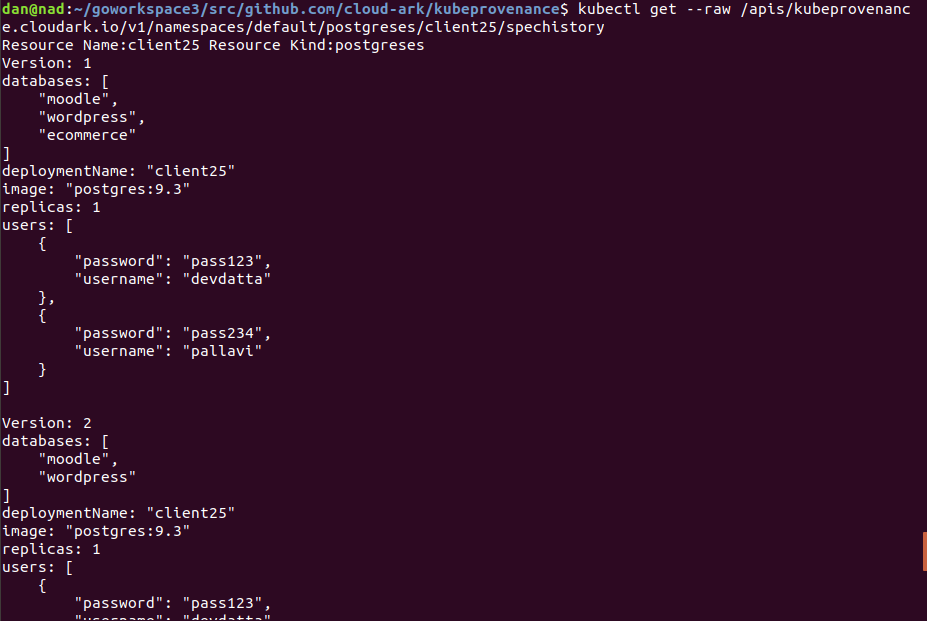
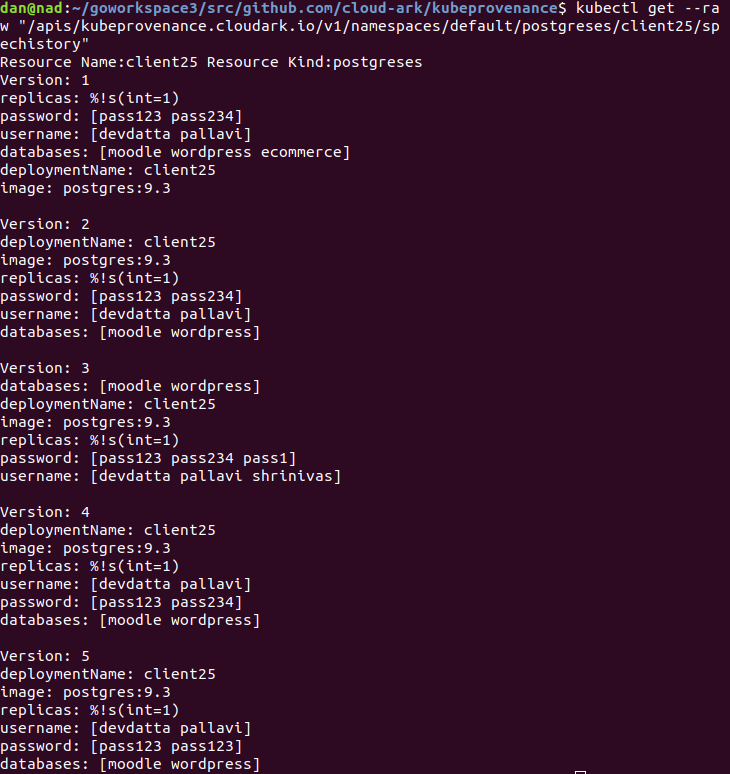
added new screenshots, did bisect, better formatting, diff works again as it is able to compare slices.

Changed region(s): [[0.0, 0.0, 0.9945, 1.0], [0.9945, 0.8567, 1.0, 0.9179]]

diff --git a/pkg/provenance/provenance.go b/pkg/provenance/provenance.go
@@ -164,12 +164,37 @@ func (o ObjectLineage) SpecHistory() string {
 	}
 	sort.Ints(s)
 	//get all versions, sort by version, make string array of them
-	specs := make([]string, 0)
+	specs := make([]Spec, 0)
 	for _, version := range s {
-		specs = append(specs, fmt.Sprint(o[version])) //cast Spec to String
+		specs = append(specs, o[version]) //cast Spec to String
 	}
-	return strings.Join(specs, "\n")
+
+	specStrings := make([]string, 0)
+	for _, spec := range specs {
+		specStrings = append(specStrings, spec.String())
+	}
+	return strings.Join(specStrings, "\n")
 }
+
+func (o ObjectLineage) SpecHistoryInterval(vNumStart, vNumEnd int) string {
+	//order keys so we append in order later, reference: https://blog.golang.org/go-maps-in-action#TOC_7.
+	s := make([]int, 0)
+	for _, value := range o {
+		s = append(s, value.Version)
+	}
+	sort.Ints(s)
+	//get all versions, sort by version, make string array of them
+	specs := make([]Spec, 0)
+	for _, version := range s {
+		specs = append(specs, o[version]) //cast Spec to String
+	}
+	specStrings := make([]string, 0)
+	for _, spec := range specs {
+		specStrings = append(specStrings, spec.String())
+	}
+	return strings.Join(specStrings, "\n")
+}
+
 func (o ObjectLineage) Bisect(field1, value1, field2, value2 string) string {
 	s := make([]int, 0)
 	for _, value := range o {
@@ -226,12 +251,12 @@ func (o ObjectLineage) Bisect(field1, value1, field2, value2 string) string {
 				fmt.Printf("Field %s not found.\n", field2)
 				return noSpecFound
 			}
-			users, ok1 := p.([]string)
+			users, ok1 := u.([]string)
 			if !ok1 {
 				fmt.Printf("Type assertion failed. Underlying data is incorrect and is not a slice of strings: %s\n", u)
 				return noSpecFound
 			}
-			passwords, ok2 := u.([]string)
+			passwords, ok2 := p.([]string)
 			if !ok2 {
 				fmt.Printf("Type assertion failed. Underlying data is incorrect and is not a slice of strings: %s\n", p)
 				return noSpecFound
@@ -248,54 +273,55 @@ func (o ObjectLineage) Bisect(field1, value1, field2, value2 string) string {
 	return noSpecFound
 }
 
-//TODO: add optional parameters to spechistory route in apiserver.go, and call this method.
-// Right now it is actually unused
-func (o ObjectLineage) SpecHistoryInterval(vNumStart, vNumEnd int) string {
-	//order keys so we append in order later, reference: https://blog.golang.org/go-maps-in-action#TOC_7.
-	s := make([]int, 0)
-	for _, value := range o {
-		s = append(s, value.Version)
-	}
-	sort.Ints(s)
-	//get all versions, sort by version, make string array of them
-	specs := make([]Spec, 0)
-	for _, version := range s {
-		specs = append(specs, o[version]) //cast Spec to String
-	}
-	specStrings := make([]string, 0)
-	for _, spec := range specs {
-		if spec.Version >= vNumStart && spec.Version <= vNumEnd {
-			specStrings = append(specStrings, spec.String())
-		}
-	}
-	return strings.Join(specStrings, "\n")
-}
-
 func (o ObjectLineage) FullDiff(vNumStart, vNumEnd int) string {
 	var b strings.Builder
 	sp1 := o[vNumStart]
 	sp2 := o[vNumEnd]
 	for attribute, data1 := range sp1.AttributeToData {
-		if data2, ok := sp2.AttributeToData[attribute]; ok {
-			if data1 != data2 {
-				fmt.Fprintf(&b, "FOUND DIFF")
-				fmt.Fprintf(&b, "Spec version %d:\n %s\n", vNumStart, data1)
-				fmt.Fprintf(&b, "Spec version %d:\n %s\n", vNumEnd, data2)
+		var stringSlice1, stringSlice2 string
+
+		sliceStringData1, okTypeAssertion1 := data1.([]string)
+		if okTypeAssertion1 {
+			stringSlice1 = strings.Join(sliceStringData1, " ")
+		}
+
+		data2, ok := sp2.AttributeToData[attribute] //check if the attribute even exists
+		if ok {
+
+			sliceStringData2, okTypeAssertion2 := data2.([]string) //type assertion to compare slices
+			if okTypeAssertion2 {
+				stringSlice2 = strings.Join(sliceStringData2, " ")
+			}
+
+			if okTypeAssertion1 && okTypeAssertion2 {
+				if stringSlice1 != stringSlice2 {
+					fmt.Fprintf(&b, "Found diff on attribute %s:\n", attribute)
+					fmt.Fprintf(&b, "\tVersion %d: %s\n", vNumStart, stringSlice1)
+					fmt.Fprintf(&b, "\tVersion %d: %s\n", vNumEnd, stringSlice2)
+				} else {
+					// fmt.Fprintf(&b, "No difference for attribute %s \n", attribute)
+				}
 			} else {
-				fmt.Fprintf(&b, "No difference for attribute %s \n", attribute)
+				if data1 != data2 {
+					fmt.Fprintf(&b, "Found diff on attribute %s:\n", attribute)
+					fmt.Fprintf(&b, "\tVersion %d: %s\n", vNumStart, data1)
+					fmt.Fprintf(&b, "\tVersion %d: %s\n", vNumEnd, data2)
+				} else {
+					// fmt.Fprintf(&b, "No difference for attribute %s \n", attribute)
+				}
 			}
 		} else { //for the case where a key exists in spec 1 that doesn't exist in spec 2
-			fmt.Fprintf(&b, "FOUND DIFF")
-			fmt.Fprintf(&b, "Spec version %d:\n %s\n", vNumStart, data1)
-			fmt.Fprintf(&b, "Spec version %d:\n %s\n", vNumEnd, "No attribute found.")
+			fmt.Fprintf(&b, "Found diff on attribute %s:\n", attribute)
+			fmt.Fprintf(&b, "\tVersion %d: %s\n", vNumStart, data1)
+			fmt.Fprintf(&b, "\tVersion %d: %s\n", vNumEnd, "No attribute found.")
 		}
 	}
 	//for the case where a key exists in spec 2 that doesn't exist in spec 1
 	for attribute, data1 := range sp2.AttributeToData {
 		if _, ok := sp2.AttributeToData[attribute]; !ok {
-			fmt.Fprintf(&b, "FOUND DIFF")
-			fmt.Fprintf(&b, "Spec version %d:\n %s\n", vNumStart, "No attribute found.")
-			fmt.Fprintf(&b, "Spec version %d:\n %s\n", vNumEnd, data1)
+			fmt.Fprintf(&b, "Found diff on attribute %s:\n", attribute)
+			fmt.Fprintf(&b, "\tVersion %d: %s\n", vNumStart, "No attribute found.")
+			fmt.Fprintf(&b, "\tVersion %d: %s\n", vNumEnd, data1)
 		}
 	}
 	return b.String()
@@ -305,23 +331,44 @@ func (o ObjectLineage) FieldDiff(fieldName string, vNumStart, vNumEnd int) strin
 	var b strings.Builder
 	data1, ok1 := o[vNumStart].AttributeToData[fieldName]
 	data2, ok2 := o[vNumEnd].AttributeToData[fieldName]
+	var stringSlice1, stringSlice2 string
+
+	sliceStringData1, okTypeAssertion1 := data1.([]string)
+	if okTypeAssertion1 {
+		stringSlice1 = strings.Join(sliceStringData1, " ")
+	}
+	sliceStringData2, okTypeAssertion2 := data2.([]string) //type assertion to compare slices
+	if okTypeAssertion2 {
+		stringSlice2 = strings.Join(sliceStringData2, " ")
+	}
+
 	switch {
 	case ok1 && ok2:
-		if data1 != data2 {
-			fmt.Fprintf(&b, "FOUND DIFF\n")
-			fmt.Fprintf(&b, "Spec version %d:\n %s\n", vNumStart, data1)
-			fmt.Fprintf(&b, "Spec version %d:\n %s\n", vNumEnd, data2)
+		if okTypeAssertion1 && okTypeAssertion2 {
+			if stringSlice1 != stringSlice2 {
+				fmt.Fprintf(&b, "Found diff on attribute %s:\n", fieldName)
+				fmt.Fprintf(&b, "\tVersion %d: %s\n", vNumStart, stringSlice1)
+				fmt.Fprintf(&b, "\tVersion %d: %s\n", vNumEnd, stringSlice2)
+			} else {
+				// fmt.Fprintf(&b, "No difference for attribute %s \n", attribute)
+			}
 		} else {
-			fmt.Fprintf(&b, "No difference for attribute %s \n", fieldName)
+			if data1 != data2 {
+				fmt.Fprintf(&b, "Found diff on attribute %s:\n", fieldName)
+				fmt.Fprintf(&b, "\tSpec version %d: %s\n", vNumStart, data1)
+				fmt.Fprintf(&b, "\tSpec version %d: %s\n", vNumEnd, data2)
+			} else {
+				// fmt.Fprintf(&b, "No difference for attribute %s \n", fieldName)
+			}
 		}
 	case !ok1 && ok2:
-		fmt.Fprintf(&b, "FOUND DIFF")
-		fmt.Fprintf(&b, "Spec version %d:\n %s\n", vNumStart, "No attribute found.")
-		fmt.Fprintf(&b, "Spec version %d:\n %s\n", vNumEnd, data2)
+		fmt.Fprintf(&b, "Found diff on attribute %s:\n", fieldName)
+		fmt.Fprintf(&b, "\tVersion %d: %s\n", vNumStart, "No attribute found.")
+		fmt.Fprintf(&b, "\tVersion %d: %s\n", vNumEnd, data2)
 	case ok1 && !ok2:
-		fmt.Fprintf(&b, "FOUND DIFF")
-		fmt.Fprintf(&b, "Spec version %d:\n %s\n", vNumStart, data1)
-		fmt.Fprintf(&b, "Spec version %d:\n %s\n", vNumEnd, "No attribute found.")
+		fmt.Fprintf(&b, "Found diff on attribute %s:\n", fieldName)
+		fmt.Fprintf(&b, "\tVersion %d: %s\n", vNumStart, data1)
+		fmt.Fprintf(&b, "\tVersion %d: %s\n", vNumEnd, "No attribute found.")
 	case !ok1 && !ok2:
 		fmt.Fprintf(&b, "Attribute not found in either version %d or %d", vNumStart, vNumEnd)
 	}

diff --git a/pkg/apiserver/apiserver.go b/pkg/apiserver/apiserver.go
@@ -222,7 +222,6 @@ func getHistory(request *restful.Request, response *restful.Response) {
 			fmt.Printf("Spec history starting with version %d and ending with version %d", startInt, endInt)
 			response.Write([]byte(intendedProvObj.ObjectFullHistory.SpecHistoryInterval(startInt, endInt)))
 		} else { //start and end
-			fmt.Printf("here")
 			response.Write([]byte(intendedProvObj.ObjectFullHistory.SpecHistory()))
 		}
 	}
@@ -230,7 +229,7 @@ func getHistory(request *restful.Request, response *restful.Response) {
 }
 
 func bisect(request *restful.Request, response *restful.Response) {
-	fmt.Println("Inside bisectaa")
+	fmt.Println("Inside bisect")
 	resourceName := request.PathParameter("resource-id")
 	requestPath := request.Request.URL.Path
 	resourcePathSlice := strings.Split(requestPath, "/")
@@ -248,8 +247,6 @@ func bisect(request *restful.Request, response *restful.Response) {
 	provenanceInfo = provenanceInfo + " Field2:" + field2 + " Value2: " + value2 + "\n"
 
 	fmt.Printf("ProvenanceInfo:%v", provenanceInfo)
-
-	response.Write([]byte(provenanceInfo))
 
 	intendedProvObj := provenance.FindProvenanceObjectByName(resourceName, provenance.AllProvenanceObjects)
 	if intendedProvObj == nil {
@@ -305,7 +302,7 @@ func getDiff(request *restful.Request, response *restful.Response) {
 			fmt.Printf("Diff for Field requested. Field:%s", field)
 			diffInfo = intendedProvObj.ObjectFullHistory.FieldDiff(field, startInt, endInt)
 		} else {
-			fmt.Println("Diff for Spec requested.")
+			fmt.Println("Diff for Full Spec requested.")
 			diffInfo = intendedProvObj.ObjectFullHistory.FullDiff(startInt, endInt)
 		}
 	}

diff --git a/README.md b/README.md
@@ -159,10 +159,10 @@ kubectl.sh get --raw "/apis/kubeprovenance.cloudark.io/v1/namespaces/default/pos
 kubectl.sh get --raw "/apis/kubeprovenance.cloudark.io/v1/namespaces/default/postgreses/client25/bisect?field1=username&value1=pallavi&field2=password&value2=pass123"
 ```
 ![alt text](https://github.com/cloud-ark/kubeprovenance/raw/master/docs/spechistory.png)
-![alt text](https://github.com/cloud-ark/kubeprovenance/raw/master/docs/getdiff_databases.png)
-![alt text](https://github.com/cloud-ark/kubeprovenance/raw/master/docs/getdiff_users.png)
-![alt text](https://github.com/cloud-ark/kubeprovenance/raw/master/docs/nodiff.png)
+![alt text](https://github.com/cloud-ark/kubeprovenance/raw/master/docs/getfulldiff.png)
+![alt text](https://github.com/cloud-ark/kubeprovenance/raw/master/docs/getfielddiff.png)
 ![alt text](https://github.com/cloud-ark/kubeprovenance/raw/master/docs/versions.png)
+![alt text](https://github.com/cloud-ark/kubeprovenance/raw/master/docs/bisect.png)
 
 ## Try it on Minikube
 
